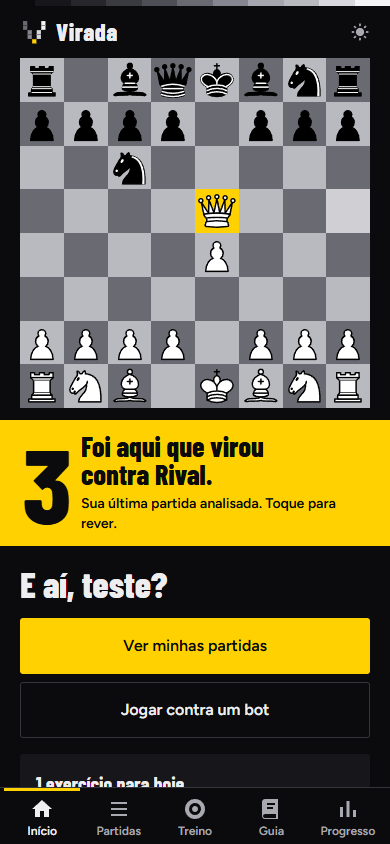
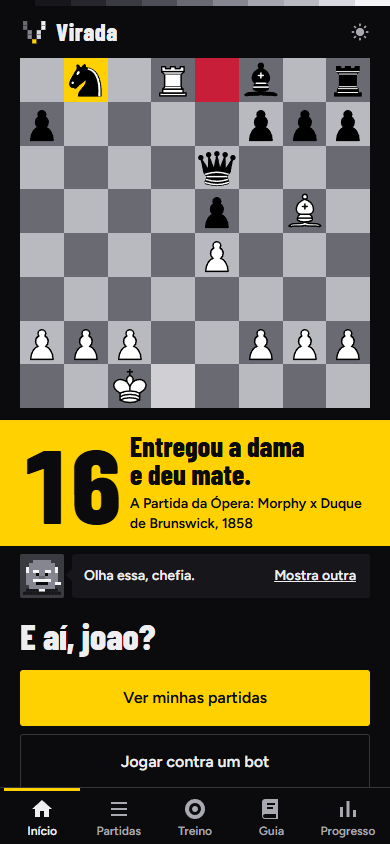
Atualiza a documentação, o GIF e a tela inicial do README

diff --git a/DESIGN.md b/DESIGN.md
@@ -217,14 +217,14 @@ components:
 
 **Creative North Star: "Da Sombra à Placa"**
 
-A partida sai do escuro, casa por casa, até o ponto em que virou, e uma placa amarela entrega a resposta. Todo o sistema serve a esse gesto: um fundo quase preto, uma escala de 11 tons que parece uma exposição de foto, um tabuleiro cinza neutro e um único amarelo chapado. O Virada recusa o painel escuro com verde que a categoria sempre usa. Quem chega depois de perder enxerga primeiro um tabuleiro e um número, e não um painel de métricas.
+Uma jogada famosa sai do escuro, casa por casa, até o lance que decidiu, e uma placa amarela entrega a história. Todo o sistema serve a esse gesto: um fundo quase preto, uma escala de 11 tons que parece uma exposição de foto, um tabuleiro cinza neutro e um único amarelo chapado. O Virada recusa o painel escuro com verde que a categoria sempre usa. Quem chega depois de perder enxerga primeiro um tabuleiro e um número, e não um painel de métricas.
 
 O tema da noite é o padrão, e o do dia só vale quando a pessoa escolhe. É o tema para o qual o Virada foi desenhado, porque o uso principal é no celular, logo depois de jogar. O tema do dia troca só as superfícies e os textos: a escala de tons, o amarelo, o tabuleiro e os selos são os mesmos nos dois. O tema segue a preferência do aparelho e não há seletor dentro do app.
 
 O carinho aparece nos detalhes, não em enfeite: retratos desenhados à mão em casas de tabuleiro, bordões, um professor de boteco e o rodapé assinado. Títulos em letra condensada e pesada, cantos quase retos e nenhum gradiente dão o tom de placa de rua. Tudo que é tarefa continua calmo: no meio de um exercício, a personalidade não atrapalha.
 
 **Key Characteristics:**
-- Um só amarelo chapado (#ffd100), reservado ao que dá para tocar e ao ponto de virada.
+- Um só amarelo chapado (#ffd100), reservado ao que dá para tocar e ao lance que decide.
 - Escala de 11 tons, visível como barra de 6px no topo das telas de navegação.
 - Superfícies chapadas: a profundidade vem do tom, quase nunca de sombra.
 - Cantos de 2px e 3px; a placa não tem canto nenhum.
@@ -267,13 +267,13 @@ Cinzas levemente frios mais um amarelo de sinalização; as outras cores só exi
 As classes aparecem como selo (fundo e símbolo fixos nos dois temas) e como texto (com contraste próprio por tema). O detalhe de cada selo está em Components.
 
 ### Named Rules
-**A Regra da Placa.** O amarelo é só para ação e ponto de virada. Se não dá para tocar e não marca onde a partida virou, não é amarelo. No tabuleiro, o resto é mudança de tom.
+**A Regra da Placa.** O amarelo é só para ação, para o lance em destaque na Revelação e para a linha discreta do gráfico. Se não dá para tocar e não marca esse lance, não é amarelo. No tabuleiro, o resto é mudança de tom.
 
 **A Regra do Acerto.** A única exceção aceita é o acerto de exercício: a onda e o flash amarelos na casa do lance certo. Ela dura menos de um segundo e some sozinha. O código ainda tem barras de progresso e um aviso de análise em segundo plano em amarelo; eles divergem da regra e não servem de modelo.
 
 **A Regra da Cor com Motivo.** Lance comum é neutro: Melhor, Boa e Livro usam branco e cinzas. Cor forte aparece nos erros (Imprecisão, Erro, Erro grave e Chance perdida) e nos dois lances que a pessoa quer conquistar: Excelente, em verde, e Brilhante, em verde-azulado. Nunca sozinha: o símbolo garante a leitura sem cor.
 
-**A Regra do Fundo Fixo.** O símbolo, os retratos dos bots e a tela da Revelação ao fim de uma análise ficam sobre tons escuros fixos da escala, para lerem igual nos dois temas.
+**A Regra do Fundo Fixo.** O símbolo e os retratos ficam sobre tons escuros fixos da escala, para lerem igual nos dois temas.
 
 ## Typography
 
@@ -283,9 +283,9 @@ As classes aparecem como selo (fundo e símbolo fixos nos dois temas) e como tex
 **Caráter:** a condensada pesada anuncia como letreiro de rua; a Figtree, humanista e arredondada, explica como gente. As fontes vêm empacotadas no app e funcionam sem internet.
 
 ### Hierarchy
-- **Número da placa** (800, 6.5rem, altura de linha 0.85, espaçamento -0.05em, algarismos tabulares): o número do lance na placa. Na versão compacta, 3.75rem.
+- **Número da placa** (800, 6.5rem, altura de linha 0.85, espaçamento -0.05em, algarismos tabulares): o número do lance na placa.
 - **Display** (800, 2.25rem, altura de linha 1; 3.75rem na tela larga para visitantes novos e 3rem para quem volta): o título da tela inicial.
-- **Título da placa** (800, 1.75rem, altura de linha 1; 1.5rem na compacta): a frase ao lado do número.
+- **Título da placa** (800, 1.75rem, altura de linha 1): a frase ao lado do número.
 - **Headline** (700, 1.875rem, altura de linha 1.2): título de tela, como "Quem vai sentar do outro lado?".
 - **Title** (700, 1.25rem, altura de linha 1.4; 1.125rem no nome dos bots): títulos de seção e o enunciado dos exercícios.
 - **Logotipo** (800, 1.5rem, espaçamento 0.025em; 1.25rem no cabeçalho da tela larga).
@@ -346,7 +346,7 @@ Um V desenhado em casas de tabuleiro: desce, vira na casa amarela e sobe mais fo
 - **Fundo:** sempre o quadro escuro, nos dois temas. O favicon e os ícones do app usam o mesmo desenho.
 
 ### Barra de tons
-As 11 zonas lado a lado, sem espaço, com 6px de altura. Fica no topo da navegação e da tela da Revelação.
+As 11 zonas lado a lado, sem espaço, com 6px de altura. Fica no topo da navegação.
 
 ### Buttons
 Botões retos e diretos, em que a cor diz qual é a próxima ação.
@@ -400,24 +400,24 @@ Cada classe tem selo, símbolo e cor de texto. O selo é um quadrado desenhado c
 ### Placa
 A resposta do app. Bloco amarelo sem canto, com o número gigante à esquerda, a frase ao lado e uma nota de 0.875rem em peso 600.
 
-- **Grande:** primeira visita ("17, Entregou a dama e deu mate", com a nota "Morphy, Paris, 1858"), tela final da análise e última partida na tela inicial. Vai de ponta a ponta no celular.
+- **Na tela inicial:** o número do lance, o que aconteceu ("Entregou a dama e deu mate.") e a nota com a partida ("A Partida da Ópera: Morphy x Duque de Brunswick, 1858"). Vai de ponta a ponta no celular.
 - **Compacta:** no resumo da revisão guiada ("Virou aqui", com o lance).
-- **Movimento:** sobe de fora da tela (de 110vh ao lugar) em 550ms. Na última partida da tela inicial e na compacta, já aparece parada.
+- **Movimento:** sobe de fora da tela (de 110vh ao lugar) em 550ms. Ao voltar para o início, já aparece parada.
 
 ### A Revelação
-O movimento próprio do Virada: a partida se acende a partir da casa-chave, 3 lances acontecem, a casa-chave fica amarela, as peças derrubadas saem voando e a placa sobe. Na primeira visita usa a Partida da Ópera, e ao fim de uma análise usa a posição real da partida, em tela cheia sobre zona 0.
+O movimento próprio do Virada: a partida se acende a partir da casa-chave, 3 lances acontecem, a casa-chave fica amarela, as peças derrubadas saem voando e a placa sobe. Só na tela inicial, e só com jogadas famosas: são 120 partidas reais, sorteadas a cada visita, e "Mostra outra" troca a jogada. Depois de analisar uma partida, nada interrompe: a análise abre direto.
 
-- **Quais lances:** o da virada e os dois seguintes. Se a partida acaba em mate até 3 lances depois da virada, mostra os 3 últimos, para terminar no mate. Se a virada ficar antes deles, a casa amarela já começa acesa.
+- **Quais lances:** o lance em destaque e os dois seguintes, ou os 3 últimos quando a partida termina em mate logo depois. Os lances vêm da base PGN Mentor. O destaque é o lance célebre, nos clássicos marcados à mão; nas outras, o último sacrifício do vencedor que o Stockfish aprova ou, sem sacrifício, a resposta ao maior erro de quem perdeu ("O erro saiu caro.").
 
 - **Casas:** acendem em onda a partir da casa-chave, com atraso de 150ms mais 85ms por casa de distância. Em 650ms, a opacidade vai de 0 a 1 e o brilho vai de 0.2 a 1.6 e volta a 1.
 - **Tabuleiro:** assenta de -1.6 graus e 97% para o lugar, em 900ms, a partir de 700ms.
 - **Peças:** surgem em 280ms, 200ms depois da própria casa.
 - **Lances:** começam em 1250ms, com 400ms cada (300ms o último) e pausa de 300ms entre eles. A peça cresce até 120% no caminho.
 - **Voo:** quando a outra peça chega, a capturada sai em arco por 1000ms, girando duas voltas, para o lado mais perto da borda: sobe quase 2 casas, anda 8 e cresce até 150%. Se o último lance é mate, o rei voa igual, no impacto. O arco evita que a peça suma logo, já que o tabuleiro da tela inicial fica no topo da página. A página recorta a largura em `#root`, porque no celular a peça encolheria a tela inteira.
-- **Impacto:** a casa amarela acende em 160ms quando o lance da virada está chegando, e a onda amarela (borda de 4px, de 100% a 450%, em 750ms) sai dela nesse instante. A origem e o rei em mate aparecem no começo do último lance. Quando ele termina, o tabuleiro desce 5px e volta, em 320ms.
+- **Impacto:** a casa amarela acende em 160ms quando o lance em destaque está chegando, e a onda amarela (borda de 4px, de 100% a 450%, em 750ms) sai dela nesse instante. A origem e o rei em mate aparecem no começo do último lance. Quando ele termina, o tabuleiro desce 5px e volta, em 320ms.
 - **Placa:** sobe 500ms depois do impacto, com a peça ainda no ar (3450ms com 3 lances).
-- **Pular:** um toque encerra tudo. Na tela inicial, as animações vão direto ao fim. Na tela final, o toque abre a análise, que também abre sozinha 5 segundos depois de a placa subir.
-- **Menos movimento:** nenhuma animação roda. O tabuleiro já mostra a posição final com as marcas e o rei em mate parado na casa vermelha, a placa aparece no lugar e a tela final fica 5 segundos. O estado de repouso é sempre o certo.
+- **Pular:** um toque encerra tudo. Na tela inicial, as animações vão direto ao fim.
+- **Menos movimento:** nenhuma animação roda. O tabuleiro já mostra a posição final com as marcas e o rei em mate parado na casa vermelha e a placa aparece no lugar. O estado de repouso é sempre o certo.
 
 ### O acerto de exercício
 Quando a pessoa acha o lance, sai uma onda amarela da casa dele. É decorativa, escondida de leitores de tela e some sozinha.
@@ -436,7 +436,7 @@ Seu Nonato, um velho de boteco que joga xadrez no bar há décadas: direto, com 
 
 - **Quem fala o quê:** a abertura da fala e a lição são dele. O que aconteceu na posição continua vindo do Stockfish, sem floreio. A lição é geral, nunca cita lance da posição, para não estragar o "Tentar de novo".
 - **Boteco sem exagero:** balcão, conta, mesa, dono do bar. Sem bebedeira e sem xingar.
-- **Retrato:** 12 por 12 casas, careca, bigode branco e palito na boca, com quatro caras: neutra, feliz, brava e espantada. Fica ao lado do cartão, que vira balão de fala, com 44px no celular e 64px com o nome na tela larga.
+- **Retrato:** 12 por 12 casas, careca, bigode branco e palito na boca, com quatro caras: neutra, feliz, brava e espantada. Quando tem coisa nova para dizer, ele fala: a boca abre e fecha a cada 120ms, a cabeça acompanha e o corpo fica parado. Pisca a cada 3,6 segundos. Com menos movimento, fica parado. Fica ao lado do cartão, que vira balão de fala, com 44px no celular e 64px com o nome na tela larga.
 
 - **Frases curtas, falando com "você":** "Não é esse. Olha de novo.", "Achou! ... era o caminho.", "Esse volta logo, para fixar."
 - **Coloquial sem exagero:** "Ô, chefia, calma. Tem lance bem melhor aqui.", "Deixa eu ver esse lance…", "Olha o garfo: ...", "Xeque-mate. Fim de papo: ...", "Teoria pura: esse lance está nos livros."
@@ -470,7 +470,7 @@ A tela inicial termina com "Feito com carinho no Brasil" em Barlow Condensed 700
 ## Do's and Don'ts
 
 ### Do:
-- **Do** use o amarelo #ffd100 em botões principais, no traço da seção atual, em interruptores ligados e em tudo que marca o ponto de virada, sempre com texto #0b0b0d.
+- **Do** use o amarelo #ffd100 em botões principais, no traço da seção atual, e em interruptores ligados, sempre com texto #0b0b0d.
 - **Do** mostre seleção invertendo texto e fundo.
 - **Do** mantenha cantos em 3px nos controles e cartões, 2px no tabuleiro e nos retratos, e 0 na placa.
 - **Do** separe planos com tom e borda de 1px.
@@ -478,14 +478,15 @@ A tela inicial termina com "Feito com carinho no Brasil" em Barlow Condensed 700
 - **Do** desenhe novos ícones em SVG e novos retratos na mesma grade de 8 por 8 casas, com os quatro tons da escala.
 - **Do** faça toda animação nova terminar no estado de repouso certo e respeitar a preferência por menos movimento, sem perder informação.
 - **Do** escreva como o Seu Nonato: curto, direto, com "você" e "chefia".
-- **Do** deixe o símbolo, os retratos e a Revelação sobre tons escuros fixos nos dois temas.
+- **Do** deixe o símbolo e os retratos sobre tons escuros fixos nos dois temas.
 
 ### Don't:
-- **Don't** use amarelo em enfeite, em texto de leitura ou no tabuleiro, fora do ponto de virada e do acerto de exercício.
+- **Don't** use amarelo em enfeite, em texto de leitura ou no tabuleiro, fora do lance em destaque na Revelação e do acerto de exercício.
 - **Don't** use verde como cor de superfície ou de marca: o verde existe só no texto positivo e na seta do melhor lance.
 - **Don't** dê cor forte a Melhor ou Boa.
 - **Don't** use gradiente em superfícies nem sombra em cartões, botões e placas.
 - **Don't** arredonde a placa.
 - **Don't** use Barlow Condensed em parágrafos.
 - **Don't** interrompa uma tarefa com personalidade: bordões ficam na escolha de bots, e a Revelação sempre pode ser pulada com um toque.
-- **Don't** transforme a Revelação em animação de tela comum: ela é o momento do ponto de virada.
+- **Don't** transforme a Revelação em animação de tela comum, nem a repita em cada partida: ela é só a abertura do app.
+- **Don't** fale do ponto de virada nas partidas da pessoa: ele fica só como a linha discreta do gráfico.

diff --git a/README.md b/README.md
@@ -12,7 +12,7 @@ Sem cadastro. Sem assinatura. Sem servidor. Seus dados ficam com você.
 
 **[Abrir o Virada](https://virada-kappa.vercel.app)**
 
-<img src="docs/revelacao.gif" width="300" alt="Animação: o tabuleiro surge da sombra, Morphy entrega a dama em b8, dá mate com a torre em d8, o rei sai voando, e uma placa amarela sobe com o número 17">
+<img src="docs/revelacao.gif" width="300" alt="Animação: o tabuleiro surge da sombra, Morphy entrega a dama em b8, dá mate com a torre em d8, o rei sai voando, e uma placa amarela sobe com o número 16">
 
 </div>
 
@@ -26,7 +26,8 @@ O Virada acha esse lance, explica em português o que aconteceu, com a voz do Se
 
 | | |
 |---|---|
-| **Acha a virada** | Classifica cada lance, marca o ponto em que a partida mudou de lado e mostra isso com uma animação na sua própria posição. |
+| **Acha a virada** | Classifica cada lance e, na revisão guiada, para nos momentos que decidiram a partida. |
+| **Abre com história** | A tela inicial mostra uma de 120 jogadas de partidas reais, da Imortal de 1851 aos dias de hoje, com o Seu Nonato comentando. Os lances vêm da base [PGN Mentor](https://www.pgnmentor.com). |
 | **Festeja o brilhante** | Quando você entrega material e a conta fecha, o lance vira Brilhante. A regra confere o sacrifício de verdade, então ele é raro. |
 | **Explica de verdade** | Peça sem defesa, garfo, cravada, mate perdido: o erro é explicado em português, com as linhas do Stockfish. |
 | **Revisão guiada** | Passa pela partida sozinho, em quatro velocidades, e para nos momentos decisivos. |
@@ -40,14 +41,14 @@ O Virada acha esse lance, explica em português o que aconteceu, com a voz do Se
 ## Telas
 
 <div align="center">
-<img src="docs/telas/inicio.png" width="200" alt="Tela inicial com a placa amarela mostrando o lance em que a última partida virou">
+<img src="docs/telas/inicio.png" width="200" alt="Tela inicial com uma jogada famosa, a placa amarela e o Seu Nonato comentando">
 <img src="docs/telas/analise.png" width="200" alt="Análise de uma partida com tabuleiro, barra de avaliação e comentários do treinador">
 <img src="docs/telas/bots.png" width="200" alt="Lista de bots com nome, frase e avatar de cada personagem">
 <img src="docs/telas/exercicio.png" width="200" alt="Exercício a partir de um erro de partida">
 </div>
 
 <div align="center">
-<img src="docs/telas/computador.png" width="820" alt="Análise de uma partida no computador, com tabuleiro, comentários, gráfico com o ponto de virada em amarelo e resumo">
+<img src="docs/telas/computador.png" width="820" alt="Análise de uma partida no computador, com tabuleiro, comentários, gráfico da partida e resumo">
 </div>
 
 ## Como rodar

diff --git a/PRODUCT.md b/PRODUCT.md
@@ -16,7 +16,7 @@ O Virada analisa as partidas da pessoa com o Stockfish rodando no navegador, cla
 
 ## Positioning
 
-Grátis, sem cadastro e sem servidor: a análise acontece no aparelho e os dados ficam com a pessoa. O centro do produto é achar o ponto de virada de cada partida e transformar o erro da própria pessoa em treino, em português do Brasil.
+Grátis, sem cadastro e sem servidor: a análise acontece no aparelho e os dados ficam com a pessoa. O centro do produto é achar os momentos que decidiram cada partida e transformar o erro da própria pessoa em treino, em português do Brasil.
 
 ## Operating Context
 
